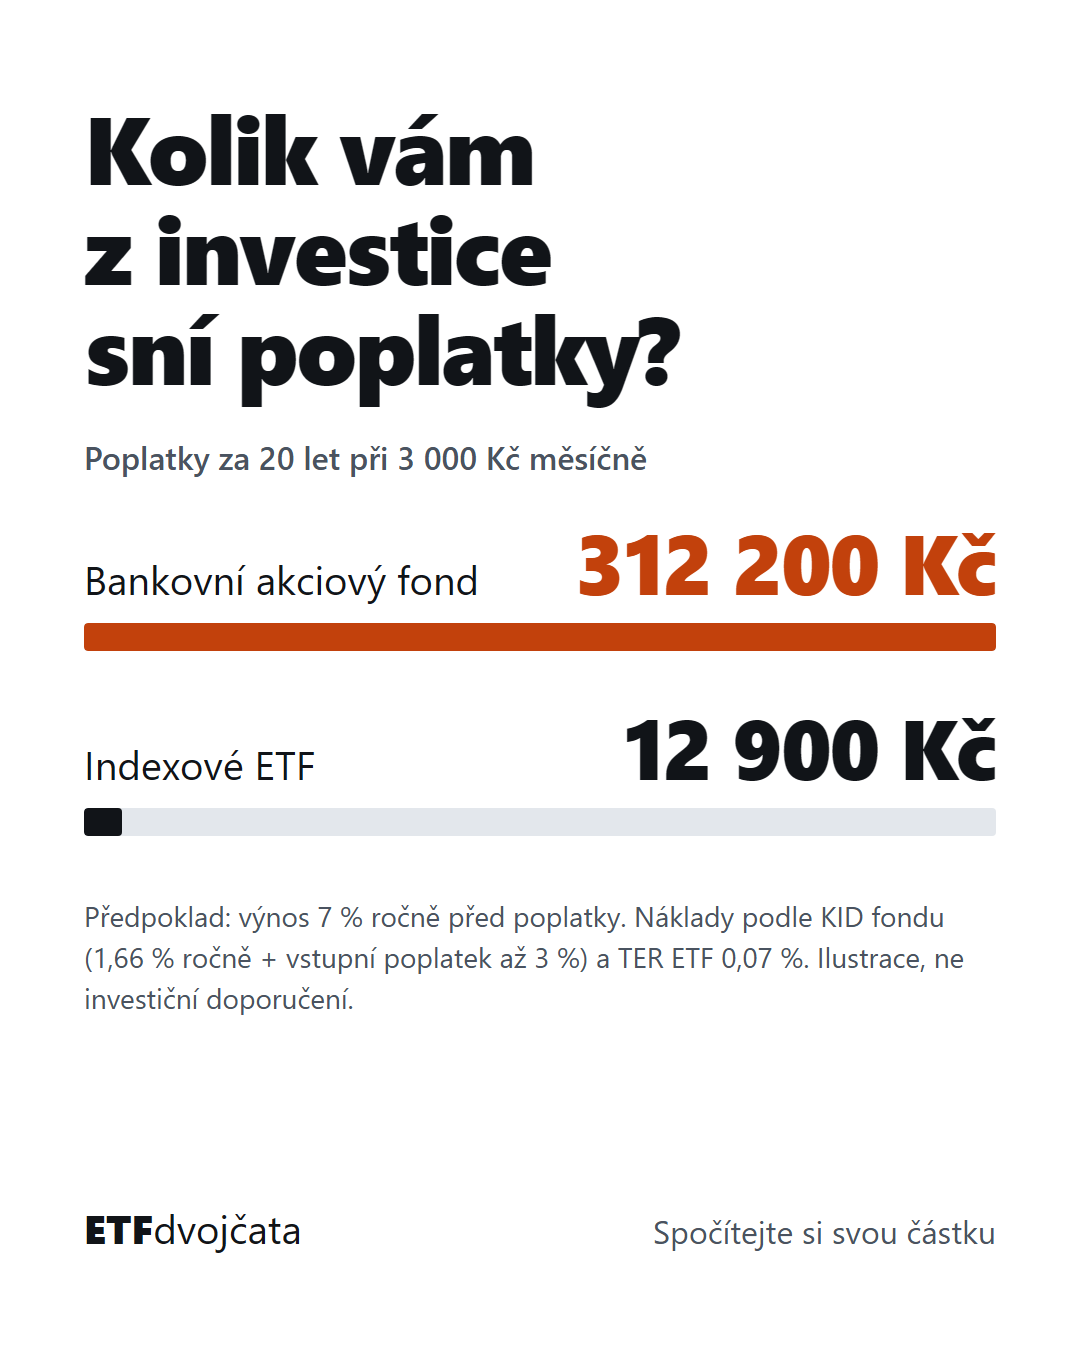
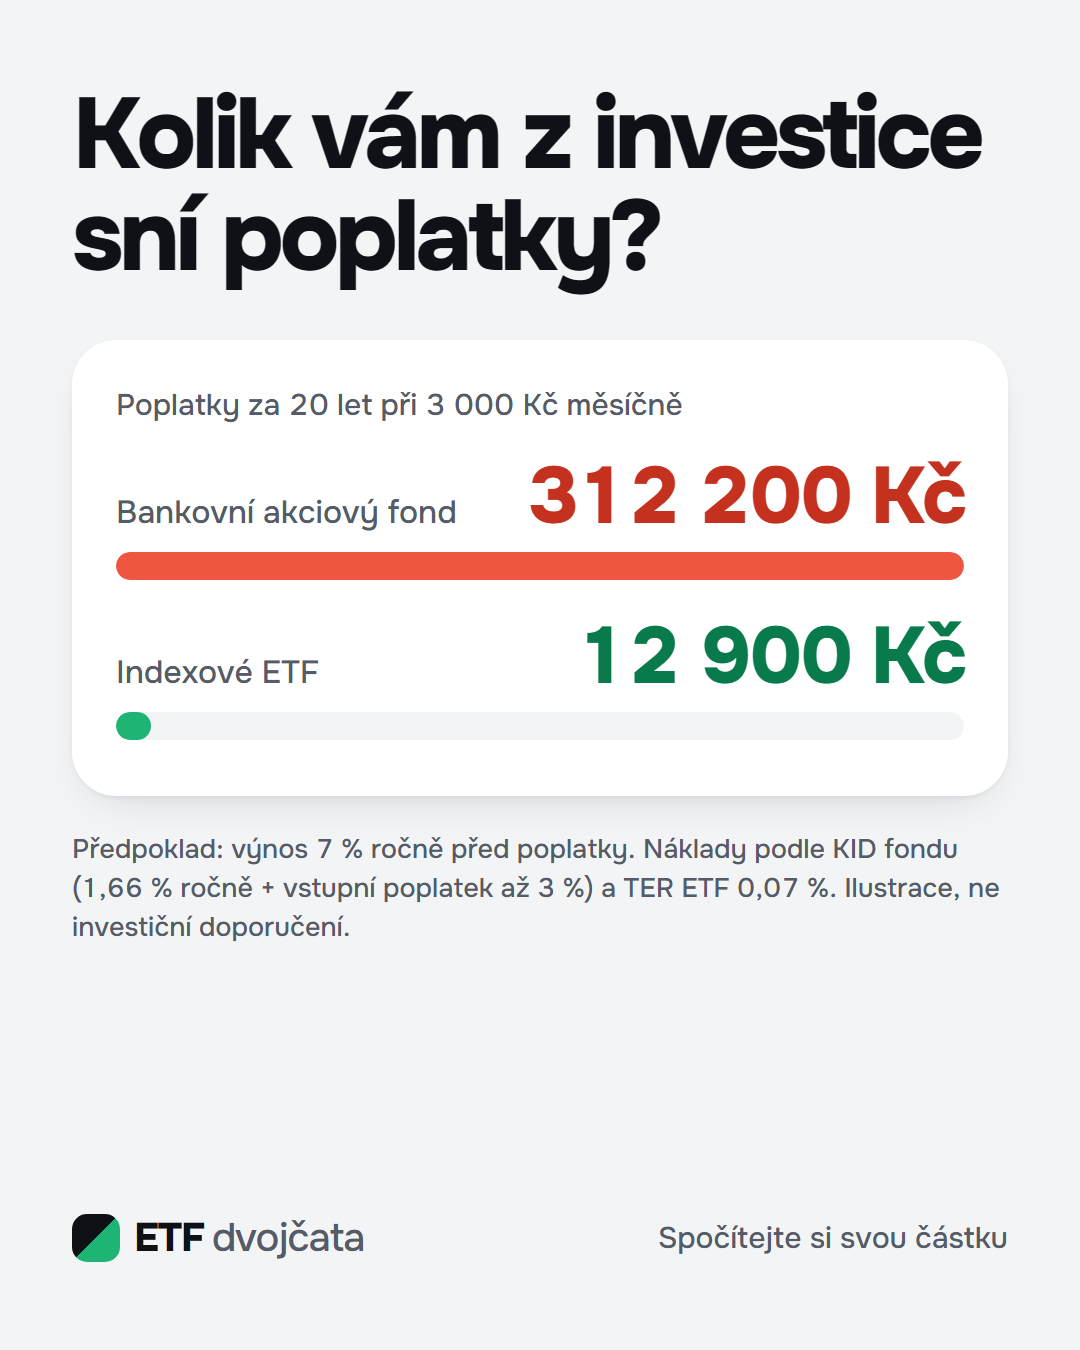
Re-render both ads in the round 3 look
Grey canvas, white card, Onest from the site's font files, green for
the ETF, coral for the bank-fund cost, struck US ticker. Same copy,
numbers and footnotes; ad docs describe the new styling.

Changed region(s): [[0.0611, 0.0622, 0.9167, 0.7467], [0.6111, 0.9022, 0.9472, 0.9333], [0.0611, 0.9022, 0.3361, 0.9333]]

diff --git a/ads/ad-b.html b/ads/ad-b.html
@@ -4,33 +4,42 @@
 <meta charset="utf-8">
 <title>Ad B creative 1080x1350</title>
 <style>
-  /* Same visual system as the page: white, system sans, #c2410c only for the bank-fund figure and bar, ink for the ETF. */
+  /* Page look v3: grey canvas, white card like the ?v=b hero bars, Onest 500/800 (fonts from the site),
+     coral = bank-fund cost, green = ETF. */
+  @font-face { font-family: Onest; src: url(../public/fonts/on500.woff2) format("woff2"); font-weight: 400 600; }
+  @font-face { font-family: Onest; src: url(../public/fonts/on800.woff2) format("woff2"); font-weight: 700 900; }
   html, body { margin: 0; width: 1080px; height: 1350px; }
-  body { background: #ffffff; color: #111418; font-family: system-ui, -apple-system, "Segoe UI", Roboto, "Helvetica Neue", Arial, sans-serif; font-variant-numeric: tabular-nums; display: flex; flex-direction: column; padding: 96px 84px; box-sizing: border-box; }
-  h1 { font-weight: 800; font-size: 96px; line-height: 1.04; letter-spacing: -0.025em; margin: 0 0 40px; text-wrap: balance; }
-  .label { font-size: 32px; font-weight: 600; color: #4a5360; margin: 0 0 40px; }
-  .row { margin-bottom: 52px; }
-  .lbl { display: flex; justify-content: space-between; align-items: baseline; font-size: 40px; margin-bottom: 18px; }
-  .lbl strong { font-size: 84px; font-weight: 800; letter-spacing: -0.02em; line-height: 1; }
-  .track { height: 28px; background: #e3e7ec; border-radius: 4px; overflow: hidden; }
-  .fill { height: 100%; border-radius: 4px; }
-  .bank strong { color: #c2410c; } .bank .fill { background: #c2410c; width: 100%; }
-  .etf strong { color: #111418; } .etf .fill { background: #111418; width: 4.13%; }
-  .note { font-size: 28px; color: #4a5360; line-height: 1.45; margin: 8px 0 0; }
-  .foot { margin-top: auto; display: flex; justify-content: space-between; align-items: baseline; font-size: 32px; color: #4a5360; }
-  .logo { font-weight: 800; color: #111418; font-size: 40px; } .logo span { font-weight: 400; }
+  body { background: #f3f4f6; color: #0e1116; font: 500 32px/1.4 Onest, system-ui, sans-serif; font-variant-numeric: tabular-nums; display: flex; flex-direction: column; padding: 84px 72px; box-sizing: border-box; -webkit-font-smoothing: antialiased; }
+  h1 { font-weight: 800; font-size: 100px; line-height: 1.02; letter-spacing: -0.045em; margin: 0 0 52px; text-wrap: balance; }
+  .card { background: #fff; border-radius: 44px; padding: 44px 44px 20px; box-shadow: 0 2px 4px rgb(14 17 22 / .05), 0 18px 48px -24px rgb(14 17 22 / .18); }
+  .label { font-size: 30px; font-weight: 600; color: #555c68; margin: 0 0 30px; }
+  .row { margin-bottom: 36px; }
+  .lbl { display: flex; justify-content: space-between; align-items: baseline; margin-bottom: 16px; }
+  .lbl span { font-size: 32px; color: #555c68; }
+  .lbl strong { font-size: 80px; font-weight: 800; letter-spacing: -0.04em; line-height: 1; }
+  .track { height: 28px; background: #f3f4f6; border-radius: 99px; overflow: hidden; }
+  .fill { height: 100%; border-radius: 99px; min-width: 28px; }
+  .bank strong { color: #c4321f; } .bank .fill { background: #f0563f; width: 100%; }
+  .etf strong { color: #087a4b; } .etf .fill { background: #1db474; width: 4.13%; }
+  .note { font-size: 27px; color: #555c68; line-height: 1.45; margin: 34px 0 0; }
+  .foot { margin-top: auto; display: flex; justify-content: space-between; align-items: center; font-size: 30px; color: #555c68; }
+  .logo { display: inline-flex; align-items: center; gap: 14px; font-weight: 800; letter-spacing: -0.03em; font-size: 40px; color: #0e1116; }
+  .logo::before { content: ""; width: 48px; height: 48px; border-radius: 15px; background: linear-gradient(135deg, #0e1116 50%, #1db474 50%); }
+  .logo span { font-weight: 500; color: #555c68; margin-left: -6px; }
 </style>
 </head>
 <body>
   <h1>Kolik vám z investice sní poplatky?</h1>
-  <p class="label">Poplatky za 20 let při 3&nbsp;000&nbsp;Kč měsíčně</p>
-  <div class="row bank">
-    <div class="lbl"><span>Bankovní akciový fond</span><strong>312&nbsp;200&nbsp;Kč</strong></div>
-    <div class="track"><div class="fill"></div></div>
-  </div>
-  <div class="row etf">
-    <div class="lbl"><span>Indexové ETF</span><strong>12&nbsp;900&nbsp;Kč</strong></div>
-    <div class="track"><div class="fill"></div></div>
+  <div class="card">
+    <p class="label">Poplatky za 20 let při 3&nbsp;000&nbsp;Kč měsíčně</p>
+    <div class="row bank">
+      <div class="lbl"><span>Bankovní akciový fond</span><strong>312&nbsp;200&nbsp;Kč</strong></div>
+      <div class="track"><div class="fill"></div></div>
+    </div>
+    <div class="row etf">
+      <div class="lbl"><span>Indexové ETF</span><strong>12&nbsp;900&nbsp;Kč</strong></div>
+      <div class="track"><div class="fill"></div></div>
+    </div>
   </div>
   <p class="note">Předpoklad: výnos 7&nbsp;% ročně před poplatky. Náklady podle KID fondu (1,66&nbsp;% ročně + vstupní poplatek až 3&nbsp;%) a TER ETF 0,07&nbsp;%. Ilustrace, ne investiční doporučení.</p>
   <div class="foot"><span class="logo">ETF<span>dvojčata</span></span><span>Spočítejte si svou částku</span></div>

diff --git a/ads/ad-a.html b/ads/ad-a.html
@@ -4,33 +4,39 @@
 <meta charset="utf-8">
 <title>Ad A creative 1080x1350</title>
 <style>
-  /* Same visual system as the page: white, system sans, ink + muted, no accent colour needed here. */
+  /* Page look v3: grey canvas, white card, Onest 500/800 (fonts from the site), green = ETF, struck US ticker. */
+  @font-face { font-family: Onest; src: url(../public/fonts/on500.woff2) format("woff2"); font-weight: 400 600; }
+  @font-face { font-family: Onest; src: url(../public/fonts/on800.woff2) format("woff2"); font-weight: 700 900; }
   html, body { margin: 0; width: 1080px; height: 1350px; }
-  body { background: #ffffff; color: #111418; font-family: system-ui, -apple-system, "Segoe UI", Roboto, "Helvetica Neue", Arial, sans-serif; font-variant-numeric: tabular-nums; display: flex; flex-direction: column; padding: 96px 84px; box-sizing: border-box; }
-  h1 { font-weight: 800; font-size: 92px; line-height: 1.04; letter-spacing: -0.025em; margin: 0 0 24px; text-wrap: balance; }
-  .meta { font-size: 32px; color: #4a5360; margin: 0 0 72px; }
-  .swap { display: flex; align-items: baseline; gap: 28px; font-weight: 800; font-size: 104px; letter-spacing: -0.01em; margin-bottom: 28px; }
-  .from { color: #4a5360; }
-  .arrow { color: #4a5360; font-weight: 400; font-size: 80px; }
-  table { width: 100%; border-collapse: collapse; font-size: 38px; }
-  th, td { padding: 26px 0; border-top: 2px solid #e3e7ec; text-align: left; }
-  tr:last-child th, tr:last-child td { border-bottom: 2px solid #e3e7ec; }
-  th { color: #4a5360; font-weight: 400; }
-  td { font-weight: 700; text-align: right; }
-  .no { color: #4a5360; font-weight: 400; }
-  .foot { margin-top: auto; display: flex; justify-content: space-between; align-items: baseline; font-size: 32px; color: #4a5360; }
-  .logo { font-weight: 800; color: #111418; font-size: 40px; } .logo span { font-weight: 400; }
+  body { background: #f3f4f6; color: #0e1116; font: 500 32px/1.4 Onest, system-ui, sans-serif; font-variant-numeric: tabular-nums; display: flex; flex-direction: column; padding: 84px 72px; box-sizing: border-box; -webkit-font-smoothing: antialiased; }
+  .pill { align-self: flex-start; font-size: 30px; font-weight: 600; color: #087a4b; background: #e3f6ec; padding: 10px 26px; border-radius: 99px; margin: 0 0 30px; }
+  h1 { font-weight: 800; font-size: 92px; line-height: 1.02; letter-spacing: -0.045em; margin: 0 0 52px; text-wrap: balance; }
+  .card { background: #fff; border-radius: 44px; padding: 44px 44px 36px; box-shadow: 0 2px 4px rgb(14 17 22 / .05), 0 18px 48px -24px rgb(14 17 22 / .18); }
+  .swap { display: flex; align-items: center; gap: 22px; font-weight: 800; font-size: 104px; letter-spacing: -0.04em; line-height: 1; margin-bottom: 34px; }
+  .from { color: #6b7280; text-decoration: line-through 6px; }
+  .arrow { color: #6b7280; font-weight: 500; font-size: 64px; }
+  .tiles { display: grid; gap: 14px; }
+  .tile { display: flex; justify-content: space-between; align-items: baseline; background: #f3f4f6; border-radius: 26px; padding: 24px 30px; }
+  .tile > span { color: #555c68; font-size: 30px; }
+  .tile b { font-weight: 800; font-size: 36px; }
+  .no { color: #555c68; font-weight: 600; } .yes { color: #087a4b; }
+  .foot { margin-top: auto; display: flex; justify-content: space-between; align-items: center; font-size: 30px; color: #555c68; }
+  .logo { display: inline-flex; align-items: center; gap: 14px; font-weight: 800; letter-spacing: -0.03em; font-size: 40px; color: #0e1116; }
+  .logo::before { content: ""; width: 48px; height: 48px; border-radius: 15px; background: linear-gradient(135deg, #0e1116 50%, #1db474 50%); }
+  .logo span { font-weight: 500; color: #555c68; margin-left: -6px; }
 </style>
 </head>
 <body>
+  <p class="pill">Pro investory z Česka</p>
   <h1>VOO u většiny brokerů nekoupíte. Jeho dvojče ano.</h1>
-  <p class="meta">Pro investory z Česka</p>
-  <div class="swap"><span class="from">VOO</span><span class="arrow">→</span><span class="to">VUAA</span></div>
-  <table>
-    <tr><th>Index</th><td>S&amp;P 500 = S&amp;P 500</td></tr>
-    <tr><th>Koupíte z Česka</th><td><span class="no">většinou ne</span> / ano</td></tr>
-    <tr><th>Roční poplatek</th><td>0,03 % / 0,07 %</td></tr>
-  </table>
+  <div class="card">
+    <div class="swap"><span class="from">VOO</span><span class="arrow">→</span><span class="to">VUAA</span></div>
+    <div class="tiles">
+      <div class="tile"><span>Index</span><b>S&amp;P 500 = S&amp;P 500</b></div>
+      <div class="tile"><span>Koupíte z Česka</span><b><span class="no">většinou ne</span> / <span class="yes">ano</span></b></div>
+      <div class="tile"><span>Roční poplatek</span><b>0,03 % / 0,07 %</b></div>
+    </div>
+  </div>
   <div class="foot"><span class="logo">ETF<span>dvojčata</span></span><span>+ SPY, QQQ, VT a další</span></div>
 </body>
 </html>

diff --git a/ads/ad-b.md b/ads/ad-b.md
@@ -28,9 +28,9 @@
 
 [`ad-b.png`](ad-b.png), source: [`ad-b.html`](ad-b.html)
 
-**Concept:** two horizontal bars on a white background, in the page's visual system (system sans at 800, no serif). The layout mirrors the `?v=b` hero.
-- A full-width bar in `#c2410c`, "Bankovní akciový fond 312 200 Kč". This orange is used only for the bank-fund figure and its bar.
-- A to-scale ink (`#111418`) bar, 4.13 % of the width, "Indexové ETF 12 900 Kč".
+**Concept:** the page's v3 look and the same layout as the `?v=b` hero: grey canvas, a white card with two rounded bars, Onest 500/800.
+- A full-width coral bar, "Bankovní akciový fond 312 200 Kč" (figure `#c4321f`, bar `#f0563f`). Coral is used only for the bank-fund cost.
+- A to-scale green bar, 4.13 % of the width, "Indexové ETF 12 900 Kč" (figure `#087a4b`, bar `#1db474`).
 - Label under the headline: "Poplatky za 20 let při 3 000 Kč měsíčně"; footnote with the assumption.
 - The visual gap between the bars is the whole message.
 

diff --git a/ads/ad-a.md b/ads/ad-a.md
@@ -20,8 +20,8 @@ The first ~125 characters (what shows before "…více") carry the hook and the 
 
 [`ad-a.png`](ad-a.png), source: [`ad-a.html`](ad-a.html)
 
-**Concept:** the page's visual system: white background, system sans at 800 for the headline, ink `#111418` and muted `#4a5360`, thin rules instead of cards.
-- "VOO" in muted grey, then an arrow, then "VUAA" in ink. No strikethrough and no accent colour.
+**Concept:** the page's v3 look: grey canvas `#f3f4f6`, one white card with a soft shadow, Onest 500/800 (the site's own font files), green pill for the audience line, facts in grey tiles.
+- "VOO" struck through in grey `#6b7280`, then an arrow, then "VUAA" in ink, as on the page. "ano" is in the ETF green `#087a4b`.
 - Three rows: "Index: S&P 500 = S&P 500", "Koupíte z Česka: ne / ano", "Poplatek: 0,03 % / 0,07 %".
 - Showing that the twin is a bit more expensive is deliberate. It is honest, and it pre-empts the comment "but VUAA costs more".
 
